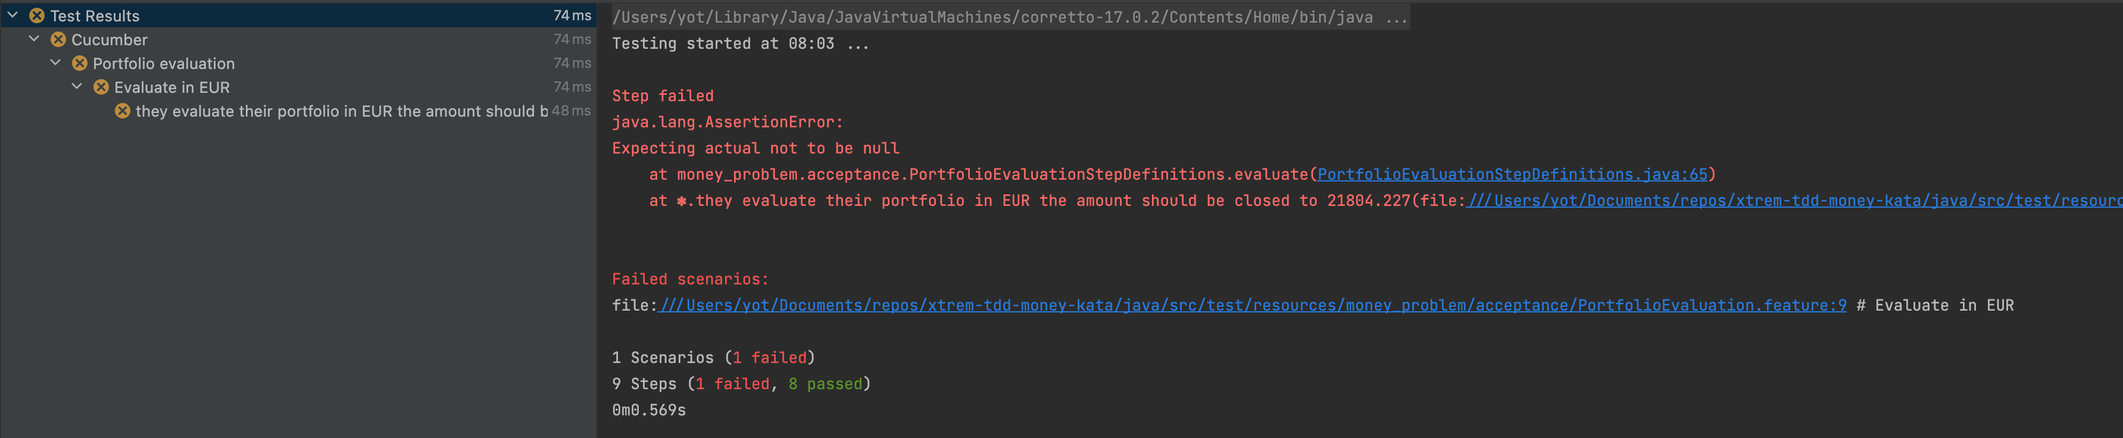
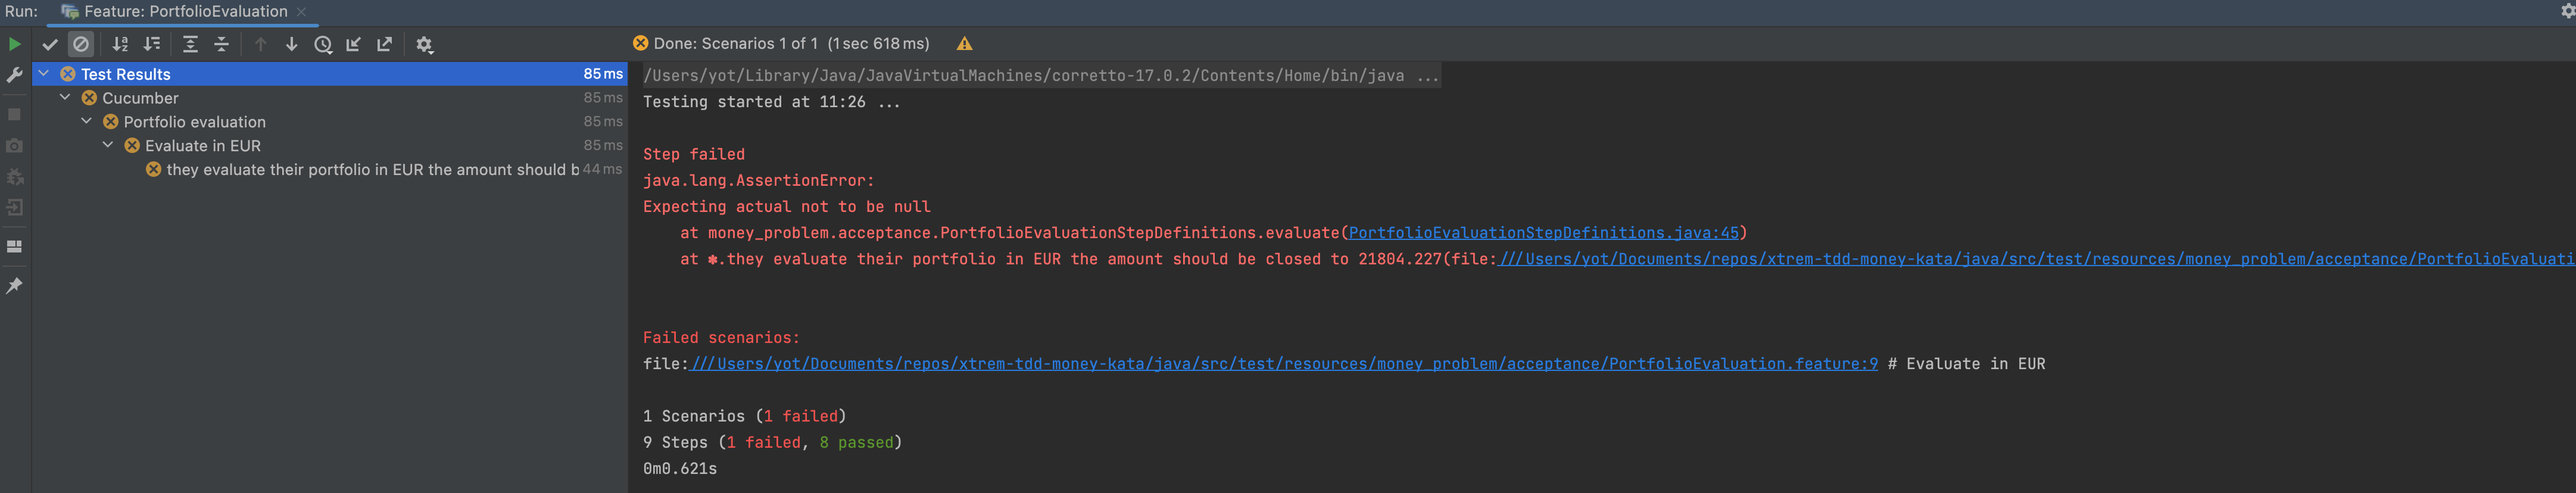
create skeleton for Acceptance test

Changed region(s): [[0.0, 0.0, 1.0, 0.5625], [0.249, 0.625, 0.9649, 0.75], [0.249, 0.7812, 0.4047, 0.9688]]

diff --git a/java/src/test/java/money_problem/acceptance/PortfolioEvaluationStepDefinitions.java b/java/src/test/java/money_problem/acceptance/PortfolioEvaluationStepDefinitions.java
@@ -7,10 +7,8 @@ import money_problem.domain.Currency;
 import money_problem.domain.Money;
 import money_problem.usecases.add_exchange_rate.AddExchangeRate;
 import money_problem.usecases.add_exchange_rate.AddExchangeRateUseCase;
-import money_problem.usecases.add_in_portfolio.AddInPortfolio;
-import money_problem.usecases.add_in_portfolio.AddMoneyInPortfolioUseCase;
-import money_problem.usecases.create_customer.CreateCustomer;
-import money_problem.usecases.create_customer.CreateCustomerUseCase;
+import money_problem.usecases.add_money_in_portfolio.AddInPortfolio;
+import money_problem.usecases.add_money_in_portfolio.AddMoneyInPortfolioUseCase;
 import money_problem.usecases.evaluate_portfolio.EvaluatePortfolio;
 import money_problem.usecases.evaluate_portfolio.EvaluatePortfolioUseCase;
 import money_problem.usecases.evaluate_portfolio.EvaluationResult;
@@ -18,23 +16,15 @@ import money_problem.usecases.setup_bank.SetupBank;
 import money_problem.usecases.setup_bank.SetupBankUseCase;
 import org.assertj.core.api.Assertions;
 
-import java.time.LocalDateTime;
-import java.time.temporal.ChronoUnit;
-import java.util.UUID;
-
 import static io.vavr.collection.List.of;
-import static org.assertj.core.api.Assertions.byLessThan;
 import static org.assertj.core.api.Assertions.offset;
 import static org.assertj.vavr.api.VavrAssertions.assertThat;
 
 public class PortfolioEvaluationStepDefinitions {
-
     private final SetupBankUseCase setupBankUseCase = new SetupBankUseCase();
     private final AddExchangeRateUseCase addExchangeRateUseCase = new AddExchangeRateUseCase();
-    private final CreateCustomerUseCase createCustomerUseCase = new CreateCustomerUseCase();
     private final AddMoneyInPortfolioUseCase addInPortfolioUseCase = new AddMoneyInPortfolioUseCase();
     private final EvaluatePortfolioUseCase evaluatePortfolioUseCase = new EvaluatePortfolioUseCase();
-    private final UUID customerId = UUID.randomUUID();
 
     @Given("our Bank system with {word} as Pivot Currency")
     public void bankWithPivot(String currency) {
@@ -46,29 +36,27 @@ public class PortfolioEvaluationStepDefinitions {
         addExchangeRateUseCase.invoke(new AddExchangeRate(rate, parseCurrency(currency)));
     }
 
-    @Given("an existing customer")
-    public void anExistingCustomer() {
-        createCustomerUseCase.invoke(new CreateCustomer(customerId));
+    @Given("an existing portfolio")
+    public void anExistingPortfolio() {
     }
 
-    @And("they add {double} {word} on their portfolio")
+    @And("our customer adds {double} {word} on their portfolio")
     public void addInPortfolio(double amount, String currency) {
-        addInPortfolioUseCase.invoke(new AddInPortfolio(customerId, amount, parseCurrency(currency)));
+        addInPortfolioUseCase.invoke(new AddInPortfolio(amount, parseCurrency(currency)));
     }
 
     @When("they evaluate their portfolio in {word} the amount should be closed to {double}")
     public void evaluate(String currency, double expectedAmount) {
         var parsedCurrency = parseCurrency(currency);
-        var evaluationResult = evaluatePortfolioUseCase.invoke(new EvaluatePortfolio(customerId, parsedCurrency));
+        var evaluationResult = evaluatePortfolioUseCase.invoke(new EvaluatePortfolio(parsedCurrency));
 
         assertThat(evaluationResult)
                 .hasRightValueSatisfying(received -> assertClosedTo(received, new Money(expectedAmount, parsedCurrency)));
     }
 
     private void assertClosedTo(EvaluationResult evaluationResult, Money expected) {
-        Assertions.assertThat(evaluationResult.evaluatedAt()).isCloseTo(LocalDateTime.now(), byLessThan(1, ChronoUnit.SECONDS));
-        Assertions.assertThat(evaluationResult.currency()).isEqualTo(expected.currency());
         Assertions.assertThat(evaluationResult.amount()).isCloseTo(expected.amount(), offset(0.001d));
+        Assertions.assertThat(evaluationResult.currency()).isEqualTo(expected.currency());
     }
 
     private Currency parseCurrency(String currency) {
@@ -77,5 +65,7 @@ public class PortfolioEvaluationStepDefinitions {
                 .get();
     }
 }
+
+
 
 

diff --git a/java/src/main/java/money_problem/usecases/evaluate_portfolio/EvaluationResult.java b/java/src/main/java/money_problem/usecases/evaluate_portfolio/EvaluationResult.java
@@ -2,8 +2,5 @@ package money_problem.usecases.evaluate_portfolio;
 
 import money_problem.domain.Currency;
 
-import java.time.LocalDateTime;
-
-public record EvaluationResult(LocalDateTime evaluatedAt, double amount, Currency currency) {
-    
+public record EvaluationResult(double amount, Currency currency) {
 }

diff --git a/java/src/main/java/money_problem/usecases/evaluate_portfolio/EvaluatePortfolio.java b/java/src/main/java/money_problem/usecases/evaluate_portfolio/EvaluatePortfolio.java
@@ -2,7 +2,5 @@ package money_problem.usecases.evaluate_portfolio;
 
 import money_problem.domain.Currency;
 
-import java.util.UUID;
-
-public record EvaluatePortfolio(UUID customerId, Currency currency) {
+public record EvaluatePortfolio(Currency currency) {
 }

diff --git a/java/src/main/java/money_problem/usecases/add_money_in_portfolio/AddMoneyInPortfolioUseCase.java b/java/src/main/java/money_problem/usecases/add_money_in_portfolio/AddMoneyInPortfolioUseCase.java
@@ -1,4 +1,4 @@
-package money_problem.usecases.add_in_portfolio;
+package money_problem.usecases.add_money_in_portfolio;
 
 public class AddMoneyInPortfolioUseCase {
     public void invoke(AddInPortfolio addInPortfolio) {

diff --git a/java/src/main/java/money_problem/usecases/add_money_in_portfolio/AddInPortfolio.java b/java/src/main/java/money_problem/usecases/add_money_in_portfolio/AddInPortfolio.java
@@ -1,0 +1,6 @@
+package money_problem.usecases.add_money_in_portfolio;
+
+import money_problem.domain.Currency;
+
+public record AddInPortfolio(double amount, Currency currency) {
+}

diff --git a/java/src/main/java/money_problem/usecases/setup_bank/SetupBankUseCase.java b/java/src/main/java/money_problem/usecases/setup_bank/SetupBankUseCase.java
@@ -1,7 +1,6 @@
 package money_problem.usecases.setup_bank;
 
 public class SetupBankUseCase {
-
     public void invoke(SetupBank setupBank) {
 
     }

diff --git a/java/docs/11.acceptance-tests.md b/java/docs/11.acceptance-tests.md
@@ -1,5 +1,6 @@
 - Parler Outside-In TDD + ATDD 
 - Parler Clean Architecture
+  - Screaming Architecture 
 - Parler Parse don't validate
   - Montrer sur Clean Archi les parsers
 - Parler CQRS
@@ -61,7 +62,7 @@ cucumber.publish.quiet=true
 
 ```gherkin
 Feature: Portfolio evaluation
-  Client can evaluate his/her Portfolio in the 3 currencies supported by our system.
+  Customers can evaluate their Portfolio in the 3 currencies supported by our system.
 
   Background:
     Given our Bank system with EUR as Pivot Currency
@@ -69,11 +70,11 @@ Feature: Portfolio evaluation
     And exchange rate of 1344 defined for KRW
 
   Scenario: Evaluate in EUR
-    Given an existing customer
-    And they add 5678.89 USD on their portfolio
-    And they add 5674567.245 KRW on their portfolio
-    And they add 9432 USD on their portfolio
-    And they add 4989.67 EUR on their portfolio
+    Given an existing portfolio
+    And our customer adds 5678.89 USD on their portfolio
+    And our customer adds 5674567.245 KRW on their portfolio
+    And our customer adds 9432 USD on their portfolio
+    And our customer adds 4989.67 EUR on their portfolio
     When they evaluate their portfolio in EUR the amount should be closed to 21804.227
 ```
 
